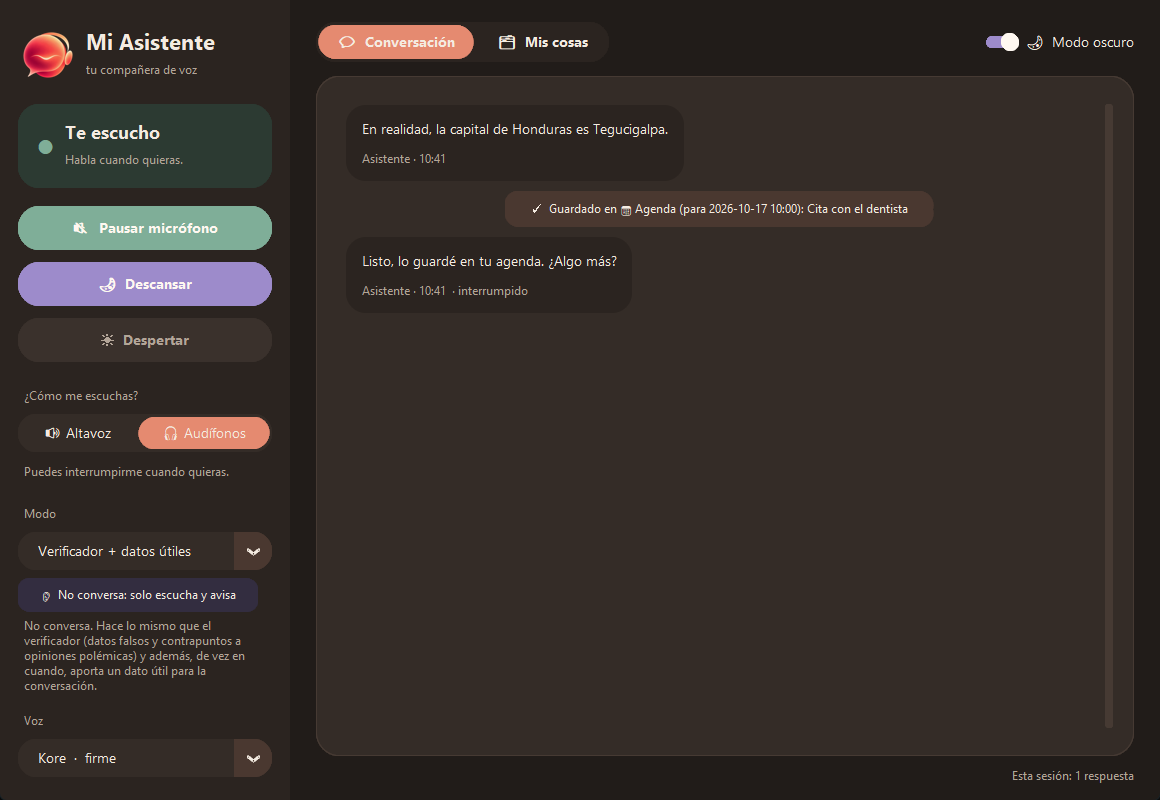
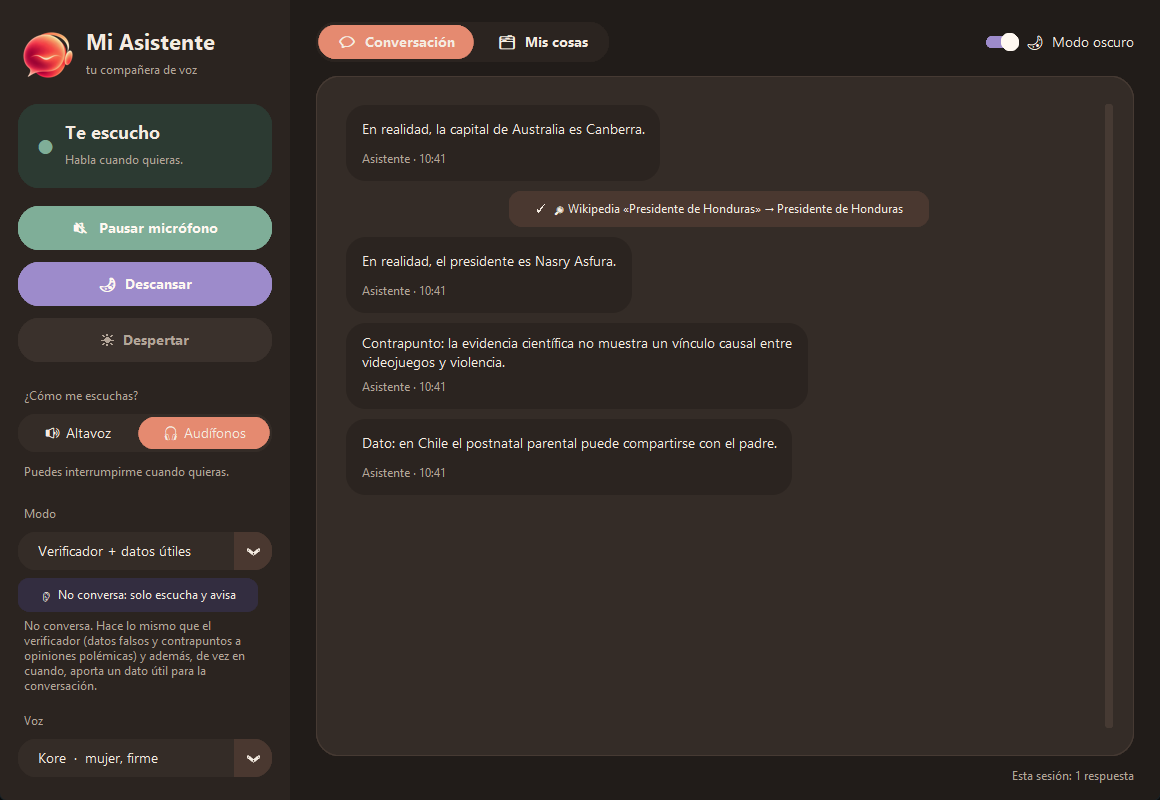
Voice menu: show woman/man for Gemini voices, women first
Genders as Google lists them for the Chirp 3 HD voices (the same voices
the Live API uses). OpenAI voices stay without one (no official list).
Screenshots refreshed; the fact-checker one shows real-style notes.

diff --git a/voicecompanion/gui.py b/voicecompanion/gui.py
@@ -19,7 +19,9 @@ from tkinter import messagebox
 import customtkinter as ctk
 
 from . import ui
-from .config import APP_NAME, CATEGORIES, CATEGORY_BY_NAME, VOICES, load_preferences, save_preference
+from .config import (
+    APP_NAME, CATEGORIES, CATEGORY_BY_NAME, VOICE_GENDERS, VOICES, load_preferences, save_preference,
+)
 from .logs import FreezeWatchdog, log
 from .memory import SOURCE_AUTO, SOURCE_MANUAL, MemoryItem, MemoryStore, normalize_due_at
 
@@ -130,6 +132,17 @@ class Tooltip:
         if self._tip is not None:
             self._tip.destroy()
             self._tip = None
+
+
+def voice_labels(provider: str) -> dict[str, str]:
+    """Menu label -> voice name, women first then men, e.g. 'Kore  ·  mujer, firme'."""
+    genders = VOICE_GENDERS.get(provider, {})
+    order = {"mujer": 0, "hombre": 1}
+    labels = {}
+    for name in sorted(VOICES[provider], key=lambda n: (order.get(genders.get(n), 2), n.lower())):
+        details = ", ".join(part for part in (genders.get(name), VOICES[provider][name]) if part)
+        labels[f"{name}  ·  {details}" if details else name] = name
+    return labels
 
 
 def initial_theme() -> str:
@@ -250,8 +263,7 @@ class MainWindow(ctk.CTk):
         self.shown_profile = None
 
         self._section_label(bar, "Voz", 12)
-        voices = VOICES[self.app.settings.provider]
-        self.voice_by_label = {(f"{name}  ·  {about}" if about else name): name for name, about in voices.items()}
+        self.voice_by_label = voice_labels(self.app.settings.provider)
         self.voice_menu = ctk.CTkOptionMenu(
             bar, values=list(self.voice_by_label), command=self._on_voice, height=38, corner_radius=19,
             font=self.font_body, fg_color=CARD, button_color=SELECTED, button_hover_color=BORDER,

diff --git a/tests/test_profiles.py b/tests/test_profiles.py
@@ -98,6 +98,19 @@ def test_choosing_a_voice_saves_it_and_starts_a_fresh_session(tmp_path, monkeypa
     assert _app(tmp_path, "Default").settings.gemini.voice == "Sulafat"  # remembered next time
 
 
+def test_voice_menu_shows_women_then_men():
+    from voicecompanion.config import VOICE_GENDERS
+    from voicecompanion.gui import voice_labels
+
+    genders = VOICE_GENDERS["gemini"]
+    assert list(genders.values()).count("mujer") == 14 and list(genders.values()).count("hombre") == 16
+    assert genders["Kore"] == "mujer" and genders["Puck"] == "hombre" and genders["Sulafat"] == "mujer"
+    labels = list(voice_labels("gemini"))
+    assert labels[0] == "Achernar  ·  mujer, suave" and labels[-1] == "Zubenelgenubi  ·  hombre, casual"
+    assert labels.index("Zephyr  ·  mujer, brillante") < labels.index("Achird  ·  hombre, amigable")
+    assert "marin  ·  recomendada" in voice_labels("openai")  # no official genders for OpenAI
+
+
 def test_window_profile_menu_uses_spanish_labels(tmp_path):
     pytest.importorskip("customtkinter")
     import queue
@@ -121,8 +134,8 @@ def test_window_profile_menu_uses_spanish_labels(tmp_path):
 
         voices = []
         app.select_voice = voices.append
-        assert window.voice_menu.get() == f"{app.settings.voice}  ·  firme"  # Kore by default
-        window._on_voice("Sulafat  ·  cálida")
+        assert window.voice_menu.get() == f"{app.settings.voice}  ·  mujer, firme"  # Kore by default
+        window._on_voice("Sulafat  ·  mujer, cálida")
         assert voices == ["Sulafat"]
     finally:
         window.closing = True

diff --git a/voicecompanion/config.py b/voicecompanion/config.py
@@ -73,6 +73,14 @@ VOICES = {
     "openai": {"marin": "recomendada", "cedar": "recomendada", "alloy": "", "ash": "", "ballad": "", "coral": "",
                "echo": "", "sage": "", "shimmer": "", "verse": ""},
 }
+# Female / male as Google lists them for these voices: https://docs.cloud.google.com/text-to-speech/docs/chirp3-hd
+# (OpenAI doesn't publish genders for its voices, so they are shown without one.)
+_GEMINI_WOMEN = {"Achernar", "Aoede", "Autonoe", "Callirrhoe", "Despina", "Erinome", "Gacrux", "Kore", "Laomedeia",
+                 "Leda", "Pulcherrima", "Sulafat", "Vindemiatrix", "Zephyr"}
+VOICE_GENDERS = {
+    "gemini": {name: ("mujer" if name in _GEMINI_WOMEN else "hombre") for name in VOICES["gemini"]},
+    "openai": {},
+}
 
 
 class ConfigError(Exception):
